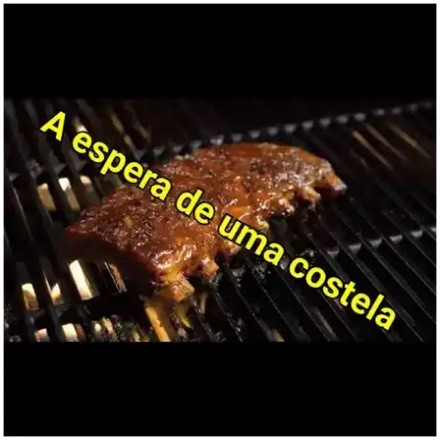
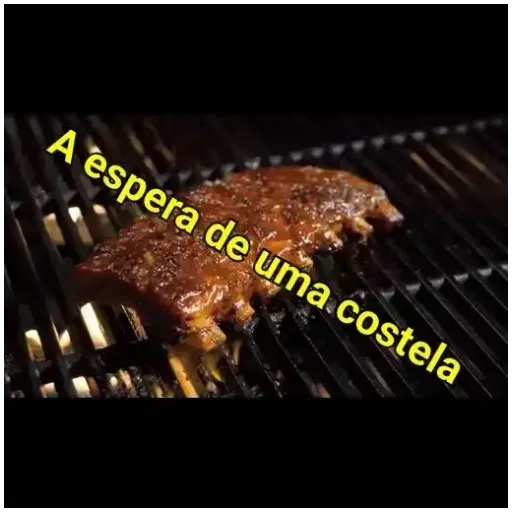
Figurinha em tamanho grande no card do presente
- A imagem passa a ocupar a largura toda do card, em quadrado, e no desktop o
  card ocupa duas colunas: 312 px no celular e 643 px no computador.
- O selo "Mais pedido" vira etiqueta sobre a imagem, no canto.
- Foto reexportada no tamanho original (512 px, 63 KB).

diff --git a/presentes/style.css b/presentes/style.css
@@ -134,9 +134,11 @@ html:not(.js) .filtros { display: none; }
 .mimo-icone { width: 68px; height: 68px; display: grid; place-items: center; }
 .mimo-sticker { width: 68px; height: 68px; }
 /* Presentes com foto enviada pelos noivos: imagem grande, estilo banner */
-.mimo--foto .mimo-topo { align-items: flex-start; }
-.mimo--foto .mimo-icone { width: 100%; height: auto; aspect-ratio: 4 / 3; display: block; border-radius: 12px; overflow: hidden; background: #f1e7d3; }
+.mimo--foto .mimo-topo { display: block; position: relative; }
+.mimo--foto .mimo-selo { position: absolute; top: 10px; right: 10px; z-index: 2; background: #fffaf1f2; }
+.mimo--foto .mimo-icone { width: 100%; height: auto; aspect-ratio: 1 / 1; display: block; border-radius: 12px; overflow: hidden; background: #f1e7d3; }
 .mimo--foto .mimo-sticker { width: 100%; height: 100%; object-fit: cover; border-radius: 12px; }
+@media (min-width: 700px) { .mimo--foto { grid-column: span 2; } }
 .mimo-selo {
   font-size: 9px; font-weight: 600; text-transform: uppercase; letter-spacing: .12em;
   color: var(--rose); background: #fbe3ec; border: 1px solid #f0c3d3; border-radius: 999px; padding: 5px 10px;
